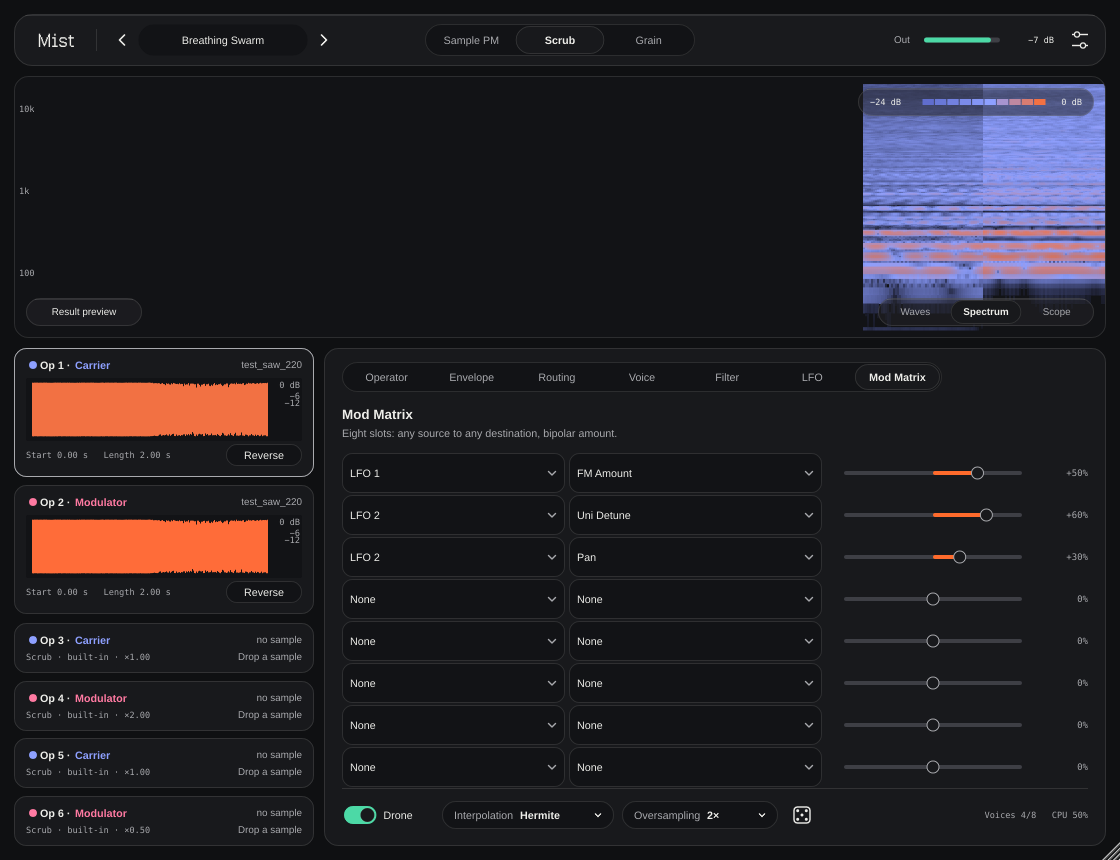
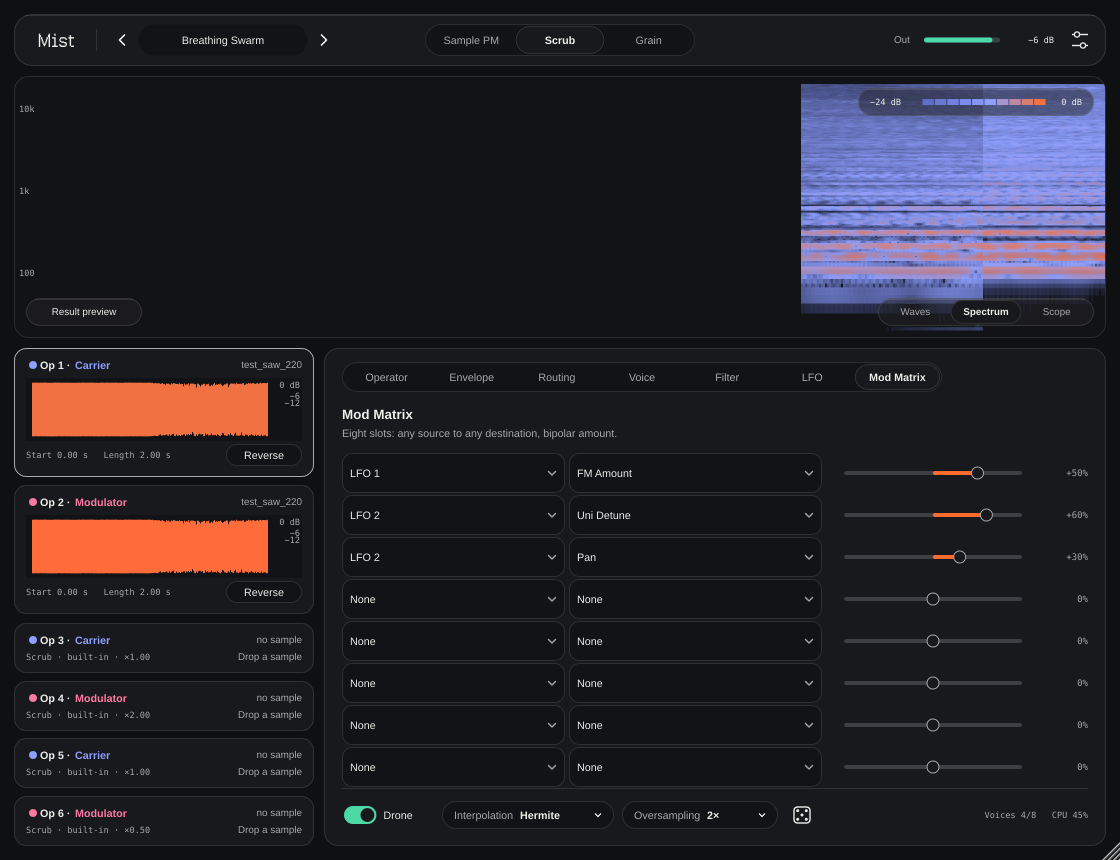
v2: faster Spectrum view, hidden links on About, release naming
- Spectrum: scrolling image, only new columns are drawn, colour lookup table,
  precomputed bin ranges (paint ~11 ms -> ~1 ms per frame in tests)
- About: clicking the version opens the GitHub repo, clicking the author opens Telegram;
  no visual link styling
- Releases are named from the VERSION file (v2); legacy build-N releases are renamed to v1, v1.01 ... v1.07

Changed region(s): [[0.6875, 0.0907, 1.0, 0.393]]

diff --git a/Source/UI/Visualizer.cpp b/Source/UI/Visualizer.cpp
@@ -199,10 +199,78 @@ void Visualizer::paintWaves (juce::Graphics& g, juce::Rectangle<float> area)
 
 // ===========================================================================
 // Spectrum
+// Оптимизация: спектрограмма — это картинка, которая сдвигается влево; на каждом тике дорисовываются
+// только новые столбцы (через BitmapData), цвета — из таблицы на 256 значений.
+void Visualizer::prepareSpectrum()
+{
+    const int rows = juce::jmax (8, getHeight() - 18);
+    const int width = juce::jmax (8, getWidth() - 2);
+    if (rows != specRows || sampleRate != specRate)
+    {
+        specRows = rows;
+        specRate = sampleRate;
+        binRange.resize ((size_t) rows);
+        tiltDb.resize ((size_t) rows);
+        const float nyq = (float) sampleRate * 0.5f;
+        for (int y = 0; y < rows; ++y)
+        {
+            const float t0 = 1.0f - (float) (y + 1) / (float) rows, t1 = 1.0f - (float) y / (float) rows;
+            const float f0 = 20.0f * std::pow (1000.0f, t0), f1 = 20.0f * std::pow (1000.0f, t1);
+            const int b0 = juce::jlimit (1, kFftSize / 2 - 1, (int) (f0 / nyq * (kFftSize / 2)));
+            const int b1 = juce::jlimit (b0, kFftSize / 2 - 1, (int) (f1 / nyq * (kFftSize / 2)));
+            binRange[(size_t) y] = { b0, b1 };
+            tiltDb[(size_t) y] = 3.0f * std::log2 (juce::jmax (20.0f, (f0 + f1) * 0.5f) / 1000.0f);
+        }
+        spectroCols.clear();
+        specImage = {};
+    }
+    if (! specImage.isValid() || specImage.getWidth() != width || specImage.getHeight() != rows)
+    {
+        specImage = juce::Image (juce::Image::ARGB, width, rows, true);
+        lutKey = {};   // перерисовать из истории
+    }
+}
+
+void Visualizer::updateLut()
+{
+    const auto bg = background();
+    const auto key = bg.toString() + Colours::carrierRamp[0].toString() + Colours::carrierRamp[1].toString() + Colours::carrierRamp[2].toString();
+    if (key == lutKey) return;
+    lutKey = key;
+    for (int i = 0; i < 256; ++i)
+    {
+        const float v = (float) i / 255.0f;
+        const auto c = v < 0.05f ? juce::Colours::transparentBlack
+                                 : bg.interpolatedWith (rampColour (Colours::carrierRamp, v), juce::jmin (1.0f, v * 1.8f));
+        lut[(size_t) i] = c.getPixelARGB();
+    }
+    // тема сменилась — перерисовать картинку из сохранённых значений
+    specImage.clear (specImage.getBounds());
+    const int n = (int) spectroCols.size();
+    for (int k = 0; k < n; ++k)
+        drawSpectrumColumn (specImage.getWidth() - (n - k) * kSpecColW, spectroCols[(size_t) k]);
+}
+
+void Visualizer::drawSpectrumColumn (int x, const std::vector<juce::uint8>& col)
+{
+    if (x + kSpecColW <= 0 || x >= specImage.getWidth()) return;
+    juce::Image::BitmapData bd (specImage, juce::Image::BitmapData::writeOnly);
+    const int rows = juce::jmin ((int) col.size(), specImage.getHeight());
+    for (int y = 0; y < rows; ++y)
+    {
+        const auto px = lut[col[(size_t) y]];
+        for (int dx = 0; dx < kSpecColW; ++dx)
+            if (x + dx >= 0 && x + dx < specImage.getWidth())
+                bd.setPixelColour (x + dx, y, juce::Colour (px));
+    }
+}
+
 void Visualizer::computeSpectrumColumns()
 {
-    const int H = juce::jmax (1, getHeight() - 2);
+    prepareSpectrum();
+    updateLut();
     if (written - spectrumRead > kRing / 2) spectrumRead = written - kRing / 2;
+    const int rows = specRows;
     int columns = 0;
     while (spectrumRead + kHop <= written && columns < 16)
     {
@@ -218,45 +286,32 @@ void Visualizer::computeSpectrumColumns()
         window.multiplyWithWindowingTable (fftBuf.data(), (size_t) kFftSize);
         fft.performFrequencyOnlyForwardTransform (fftBuf.data(), true);
 
-        std::vector<float> col ((size_t) H);
-        const float nyq = (float) sampleRate * 0.5f;
-        for (int y = 0; y < H; ++y)
+        std::vector<juce::uint8> col ((size_t) rows);
+        const float norm = 1.0f / (float) (kFftSize / 4);
+        for (int y = 0; y < rows; ++y)
         {
-            const float t0 = 1.0f - (float) (y + 1) / (float) H, t1 = 1.0f - (float) y / (float) H;
-            const float f0 = 20.0f * std::pow (1000.0f, t0), f1 = 20.0f * std::pow (1000.0f, t1);
-            int b0 = juce::jlimit (1, kFftSize / 2 - 1, (int) (f0 / nyq * (kFftSize / 2)));
-            int b1 = juce::jlimit (b0, kFftSize / 2 - 1, (int) (f1 / nyq * (kFftSize / 2)));
+            const auto [b0, b1] = binRange[(size_t) y];
             float mag = 0.0f;
             for (int b = b0; b <= b1; ++b) mag = juce::jmax (mag, fftBuf[(size_t) b]);
-            const float db = juce::Decibels::gainToDecibels (mag / (float) (kFftSize / 4), -120.0f);
-            const float tilt = 3.0f * std::log2 (juce::jmax (20.0f, (f0 + f1) * 0.5f) / 1000.0f);
-            col[(size_t) y] = juce::jlimit (0.0f, 1.0f, (db + tilt + 90.0f) / 84.0f);
+            const float db = juce::Decibels::gainToDecibels (mag * norm, -120.0f);
+            col[(size_t) y] = (juce::uint8) juce::roundToInt (juce::jlimit (0.0f, 1.0f, (db + tiltDb[(size_t) y] + 90.0f) / 84.0f) * 255.0f);
         }
-        columnValues = col;
+
+        // сдвигаем картинку влево и рисуем только новый столбец
+        const int w = specImage.getWidth();
+        specImage.moveImageSection (0, 0, kSpecColW, 0, w - kSpecColW, specImage.getHeight());
+        drawSpectrumColumn (w - kSpecColW, col);
         spectroCols.push_back (std::move (col));
         ++columns;
     }
-    while ((int) spectroCols.size() > juce::jmax (1, getWidth() / 2)) spectroCols.pop_front();
+    while ((int) spectroCols.size() > specImage.getWidth() / kSpecColW + 1) spectroCols.pop_front();
 }
 
 void Visualizer::paintSpectrum (juce::Graphics& g, juce::Rectangle<float> area)
 {
-    const auto bg = background();
-    const float colW = 2.0f;
-    float x = area.getRight() - colW * (float) spectroCols.size();
-    for (auto& col : spectroCols)
-    {
-        const int H = (int) col.size();
-        const float ch = area.getHeight() / (float) juce::jmax (1, H);
-        for (int y = 0; y < H; ++y)
-        {
-            const float v = col[(size_t) y];
-            if (v < 0.05f) continue;
-            g.setColour (bg.interpolatedWith (rampColour (Colours::carrierRamp, v), juce::jmin (1.0f, v * 1.8f)));
-            g.fillRect (x, area.getY() + (float) y * ch, colW, ch + 0.5f);
-        }
-        x += colW;
-    }
+    prepareSpectrum();
+    updateLut();
+    g.drawImage (specImage, area, juce::RectanglePlacement::stretchToFit);
     g.setFont (LnF::mono (LnF::Type::footnote));
     for (float f : { 100.0f, 1000.0f, 10000.0f })
     {

diff --git a/Source/UI/About.h b/Source/UI/About.h
@@ -6,7 +6,9 @@ namespace mist
 // Версия и дата — показываются на странице About
 namespace AboutInfo
 {
-    inline const char* version = "v1.01";
+    inline const char* version = "v2";
+    inline const char* repoUrl = "https://github.com/controloptioncommand/Mist";
+    inline const char* authorUrl = "https://t.me/nothiingnothingnothing";
     inline const char* date = "1st November 2026";
     inline const char* author = "made by nnn";
 }
@@ -67,6 +69,31 @@ private:
         juce::uint32 lastClick = 0;
         int clicks = 0;
     };
+    // Невидимая кликабельная область поверх текста: внешне ничем не выделена
+    struct HiddenLink : juce::Component
+    {
+        HiddenLink (const juce::String& title, const juce::String& u) : url (u)
+        {
+            setTitle (title);
+            setDescription (u);
+            setWantsKeyboardFocus (true);
+            setMouseClickGrabsKeyboardFocus (false);
+        }
+        void mouseUp (const juce::MouseEvent& e) override { if (e.mouseWasClicked()) open(); }
+        bool keyPressed (const juce::KeyPress& k) override
+        {
+            if (k == juce::KeyPress::returnKey || k == juce::KeyPress::spaceKey) { open(); return true; }
+            return false;
+        }
+        void paint (juce::Graphics& g) override
+        {
+            if (hasKeyboardFocus (false)) MistLookAndFeel::drawFocusRing (g, getLocalBounds().toFloat(), 6.0f);
+        }
+        void focusGained (FocusChangeType) override { repaint(); }
+        void focusLost (FocusChangeType) override { repaint(); }
+        void open() { juce::URL (url).launchInDefaultBrowser(); }
+        juce::String url;
+    };
     struct CapsuleButton : juce::Button
     {
         explicit CapsuleButton (const juce::String& t) : juce::Button (t) { setTitle (t); }
@@ -77,6 +104,8 @@ private:
 
     BackLogo back;
     SecretLogo logoHit;
+    HiddenLink versionLink { "Mist on GitHub", AboutInfo::repoUrl };
+    HiddenLink authorLink { "Author on Telegram", AboutInfo::authorUrl };
     CapsuleButton closeGame { "Close game" };
     GameView game;
     bool gameMode = false;

diff --git a/Source/UI/About.cpp b/Source/UI/About.cpp
@@ -278,6 +278,8 @@ AboutPage::AboutPage()
     setDescription (juce::String ("Mist ") + AboutInfo::version + ", " + AboutInfo::date + ", " + AboutInfo::author);
     addAndMakeVisible (back);
     addAndMakeVisible (logoHit);
+    addAndMakeVisible (versionLink);
+    addAndMakeVisible (authorLink);
     logoHit.setTitle ("Mist logo");
     logoHit.onSecretClicks = [this] { showGame (true); };
     addChildComponent (closeGame);
@@ -347,6 +349,13 @@ void AboutPage::paint (juce::Graphics& g)
 void AboutPage::resized()
 {
     const float W = (float) getWidth(), H = (float) getHeight();
+    // версия и дата в левом нижнем углу (ширина — по тексту)
+    {
+        const auto bold = LnF::font (LnF::Type::callout, true), regular = LnF::font (LnF::Type::callout);
+        const float w = (float) juce::GlyphArrangement::getStringWidth (bold, AboutInfo::version)
+                      + (float) juce::GlyphArrangement::getStringWidth (regular, midDot() + AboutInfo::date);
+        versionLink.setBounds (juce::Rectangle<float> (24.0f, H - 46.0f, w + 10.0f, 26.0f).toNearestInt());
+    }
     back.setBounds (24, 24, 64, 32);   // ровно там же, где логотип в тулбаре
 
     if (! gameMode)
@@ -354,11 +363,13 @@ void AboutPage::resized()
         bigLogo = { 0.0f, H * 0.33f, W, 140.0f };
         versionLine = { 0.0f, bigLogo.getBottom() + 4.0f, W, 18.0f };
         logoHit.setBounds (bigLogo.withSizeKeepingCentre (360.0f, bigLogo.getHeight()).toNearestInt());
+        authorLink.setBounds (versionLine.withSizeKeepingCentre (110.0f, 22.0f).toNearestInt());
     }
     else
     {
         bigLogo = { 0.0f, H * 0.12f, W, 80.0f };
         versionLine = { 0.0f, bigLogo.getBottom() + 2.0f, W, 18.0f };
+        authorLink.setBounds (versionLine.withSizeKeepingCentre (110.0f, 22.0f).toNearestInt());
         game.setBounds ((int) (W - 680.0f) / 2, (int) versionLine.getBottom() + 34, 680, 220);
         hintLine = { 0.0f, (float) game.getBottom() + 14.0f, W, 16.0f };
         closeGame.setBounds ((int) (W * 0.5f) - 65, (int) hintLine.getBottom() + 16, 130, 40);

diff --git a/Tests/RenderTest.cpp b/Tests/RenderTest.cpp
@@ -292,6 +292,20 @@ int main (int argc, char** argv)
             le->setView (0, 2, 0);  pump (90, first); first = false; shoot ("ui_" + tn + "_scope");
             le->setView (2, 0, 1);  pump (60, false); shoot ("ui_" + tn + "_waves");
             le->setView (6, 1, 0);  pump (60, false); shoot ("ui_" + tn + "_spectrum");
+            {
+                // скорость: 30 кадров отрисовки главного окна в виде Spectrum
+                const auto t0 = juce::Time::getMillisecondCounterHiRes();
+                double paintMs = 0;
+                for (int k = 0; k < 30; ++k)
+                {
+                    pump (1, false);
+                    const auto a = juce::Time::getMillisecondCounterHiRes();
+                    (void) ed->createComponentSnapshot (ed->getLocalBounds(), true, 1.0f);
+                    paintMs += juce::Time::getMillisecondCounterHiRes() - a;
+                }
+                juce::ignoreUnused (t0);
+                std::cout << "  spectrum view paint: " << juce::String (paintMs / 30.0, 2) << " ms/frame\n";
+            }
             le->showAboutForTest (true, false); pump (5, false); shoot ("about_" + tn);
             le->showAboutForTest (true, true);  pump (40, false); shoot ("game_" + tn);
             le->showAboutForTest (false, false);

diff --git a/Source/UI/Visualizer.h b/Source/UI/Visualizer.h
@@ -64,8 +64,18 @@ private:
     juce::dsp::FFT fft { kFftOrder };
     juce::dsp::WindowingFunction<float> window { (size_t) kFftSize, juce::dsp::WindowingFunction<float>::hann };
     std::vector<float> fftBuf = std::vector<float> (kFftSize * 2, 0.0f);
-    std::vector<float> columnValues;              // последний столбец, 0..1 по высоте
-    std::deque<std::vector<float>> spectroCols;   // история столбцов (значения, не цвета — тема может смениться)
+    static constexpr int kSpecColW = 2;
+    std::deque<std::vector<juce::uint8>> spectroCols;   // история столбцов (значения 0..255 — тема может смениться)
+    juce::Image specImage;
+    int specRows = 0;
+    double specRate = 0.0;
+    std::vector<std::pair<int, int>> binRange;
+    std::vector<float> tiltDb;
+    std::array<juce::PixelARGB, 256> lut {};
+    juce::String lutKey;
+    void prepareSpectrum();
+    void updateLut();
+    void drawSpectrumColumn (int x, const std::vector<juce::uint8>& col);
 
     juce::Rectangle<float> tabsArea, legendArea, previewChip;
 };

diff --git a/README.md b/README.md
@@ -3,7 +3,7 @@
 </p>
 
 <p align="center">
-  <img src="https://img.shields.io/badge/version-1.01-FF6B2C?style=flat-square&labelColor=18191C" alt="version 1.01">
+  <img src="https://img.shields.io/badge/version-2-FF6B2C?style=flat-square&labelColor=18191C" alt="version 2">
   <img src="https://img.shields.io/badge/macOS-Apple%20Silicon-EDEDE9?style=flat-square&labelColor=18191C" alt="macOS, Apple Silicon">
   <img src="https://img.shields.io/badge/formats-VST3%20%C2%B7%20AU-8EA0FF?style=flat-square&labelColor=18191C" alt="VST3 and AU">
   <img src="https://img.shields.io/badge/vibe-coded-FF7AA2?style=flat-square&labelColor=18191C" alt="vibe-coded">
@@ -83,7 +83,7 @@
 Да, внутри есть игра. Клик по пиксельному логотипу **Mist** в тулбаре открывает страницу About. А если **пять раз быстро кликнуть по большому логотипу**, запустится бегалка: пиксельная сова-сипуха 12×13 прыгает через пни и стог сена под луной. Пробел, ↑ или клик — прыжок. Рекорд хранится до закрытия плагина. Проигрыш дружелюбный: сова просто садится, и можно нажать «Try again».
 
 <p align="center">
-  <img src="docs/assets/about_rubber.png" alt="Страница About: большой пиксельный логотип Mist, под ним made by nnn, в левом нижнем углу версия v1.01 и дата." width="49%">
+  <img src="docs/assets/about_rubber.png" alt="Страница About: большой пиксельный логотип Mist, под ним made by nnn, в левом нижнем углу версия v2 и дата." width="49%">
   <img src="docs/assets/game_rubber.png" alt="Игра: пиксельная оранжевая сова стоит на линии земли, вверху луна, звёзды и счёт HI 00000 / 00000." width="49%">
 </p>
 
